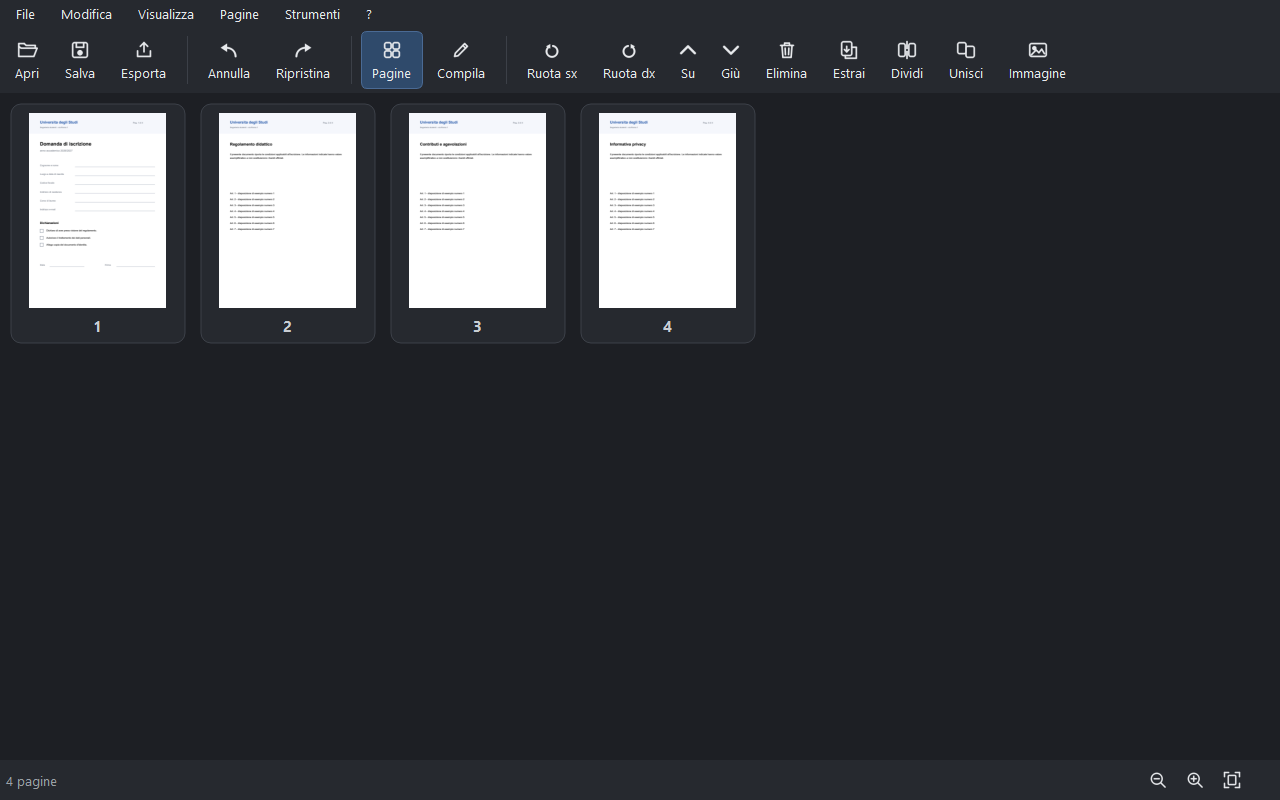
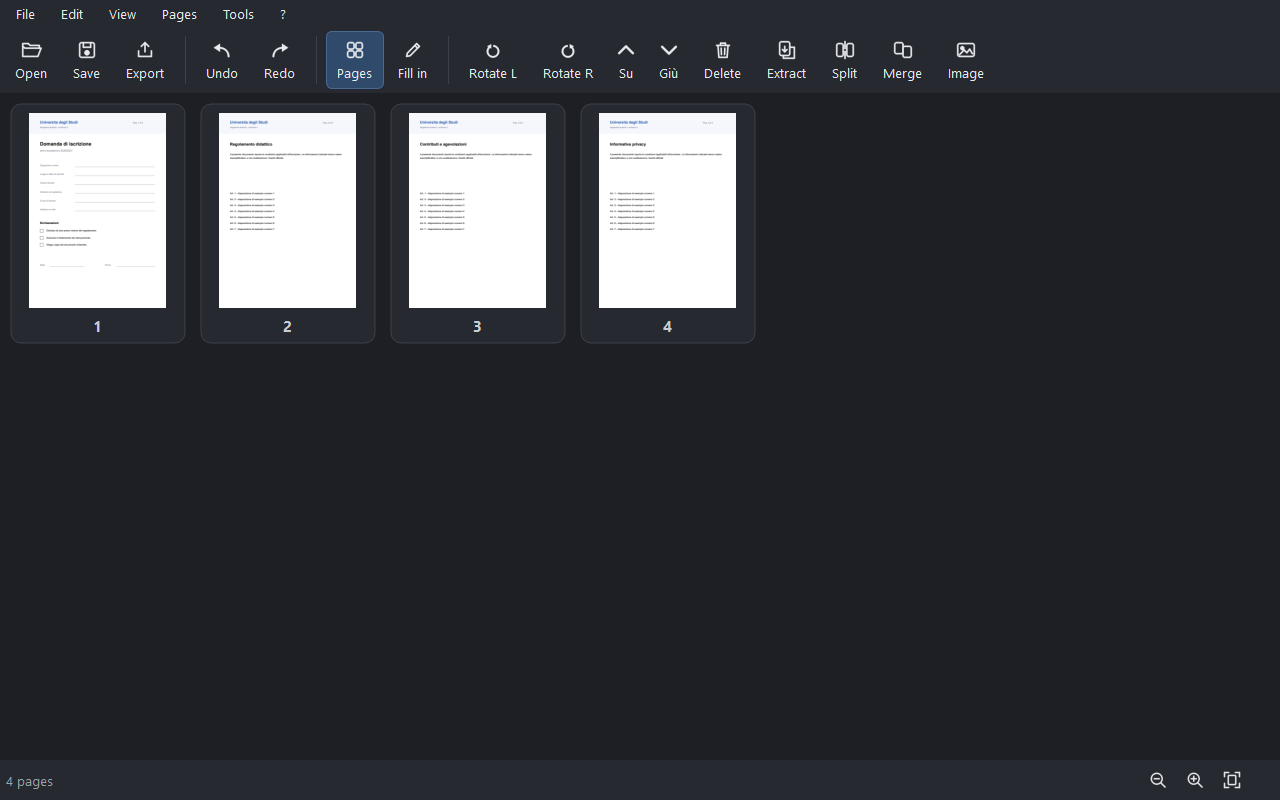
Aggiorna sito da landing/

diff --git a/come-si-fa.html b/come-si-fa.html
@@ -94,7 +94,7 @@
         <li data-en="Switch views with the <b>Pages</b> and <b>Fill in</b> buttons in the toolbar, or with <b>Ctrl+1</b> and <b>Ctrl+2</b>.">Passi all'altra vista con i pulsanti <b>Pagine</b> e <b>Compila</b> della barra, o con <b>Ctrl+1</b> e <b>Ctrl+2</b>.</li>
       </ol>
       <figure class="shot" style="margin-top:26px">
-        <img src="assets/img/howto/02-vista-compila.png" width="1280" height="800" loading="lazy"
+        <img src="assets/img/howto/02-vista-compila.png" data-en-src="assets/img/howto/02-vista-compila-en.png" width="1280" height="800" loading="lazy"
              alt="La vista Modifica e compila con un modulo di iscrizione aperto e la barra degli strumenti in alto.">
         <figcaption data-en="The <b>Edit and fill in</b> view. The row of tools at the top is what you will use for the rest of this guide.">La vista <b>Modifica e compila</b>. La fila di strumenti in alto è quella che userai per tutto il resto della guida.</figcaption>
       </figure>
@@ -116,7 +116,7 @@
         <li data-en="<b>Splitting</b> the document into several files: <b>Pages → Split document…</b>"><b>Dividere</b> il documento in più file: <b>Pagine → Dividi documento…</b></li>
       </ol>
       <figure class="shot" style="margin-top:26px">
-        <img src="assets/img/howto/01-organizza-pagine.png" width="1280" height="800" loading="lazy"
+        <img src="assets/img/howto/01-organizza-pagine.png" data-en-src="assets/img/howto/01-organizza-pagine-en.png" width="1280" height="800" loading="lazy"
              alt="La vista Organizza pagine con le miniature delle quattro pagine del documento.">
         <figcaption data-en="The <b>Organise pages</b> view: you drag things around as you would with slides.">La vista <b>Organizza pagine</b>: si trascina come si farebbe con le diapositive.</figcaption>
       </figure>
@@ -140,7 +140,7 @@
         <li data-en="<b>Ctrl+B</b> and <b>Ctrl+I</b> apply bold and italic while you type."><b>Ctrl+B</b> e <b>Ctrl+I</b> mettono grassetto e corsivo mentre stai scrivendo.</li>
       </ol>
       <figure class="shot" style="margin-top:26px">
-        <img src="assets/img/howto/03-modifica-testo.png" width="1280" height="800" loading="lazy"
+        <img src="assets/img/howto/03-modifica-testo.png" data-en-src="assets/img/howto/03-modifica-testo-en.png" width="1280" height="800" loading="lazy"
              alt="Il titolo del modulo è stato cambiato da Domanda di iscrizione a Domanda di immatricolazione, con lo stesso carattere e lo stesso corpo dell'originale.">
         <figcaption data-en="The form title has been rewritten as <b>Domanda di immatricolazione</b>: same typeface, same size, same position. Nobody would say it had been touched.">Il titolo del modulo è stato riscritto in <b>Domanda di immatricolazione</b>: stesso carattere, stesso corpo, stessa posizione. Nessuno direbbe che è stato toccato.</figcaption>
       </figure>
@@ -163,7 +163,7 @@
         <li data-en="With the <b>Select</b> tool you can then move the box or resize it from its corners.">Con lo strumento <b>Seleziona</b> puoi poi spostare la casella o ridimensionarla dagli angoli.</li>
       </ol>
       <figure class="shot" style="margin-top:26px">
-        <img src="assets/img/howto/04-casella-testo.png" width="1280" height="800" loading="lazy"
+        <img src="assets/img/howto/04-casella-testo.png" data-en-src="assets/img/howto/04-casella-testo-en.png" width="1280" height="800" loading="lazy"
              alt="Una casella di testo con scritto Rossi Maria sulla riga Cognome e nome del modulo.">
         <figcaption data-en="A text box resting on the empty line of the form.">Una casella di testo appoggiata sulla riga vuota del modulo.</figcaption>
       </figure>
@@ -183,7 +183,7 @@
         <li data-en="<b>Enter</b> to finish."><b>Invio</b> per terminare.</li>
       </ol>
       <figure class="shot" style="margin-top:26px">
-        <img src="assets/img/howto/05-caselle-griglia.png" width="1280" height="800" loading="lazy"
+        <img src="assets/img/howto/05-caselle-griglia.png" data-en-src="assets/img/howto/05-caselle-griglia-en.png" width="1280" height="800" loading="lazy"
              alt="Un codice fiscale scritto nelle caselle a griglia sulla riga Codice fiscale del modulo.">
         <figcaption data-en="The tax code goes in one letter per box, aligned to the pitch of the form.">Il codice fiscale entra una lettera per casella, allineato al passo del modulo.</figcaption>
       </figure>
@@ -200,7 +200,7 @@
         <li data-en="Size and colour are set in the toolbar.">La dimensione e il colore si regolano nella barra.</li>
       </ol>
       <figure class="shot" style="margin-top:26px">
-        <img src="assets/img/howto/06-spunte.png" width="1280" height="800" loading="lazy"
+        <img src="assets/img/howto/06-spunte.png" data-en-src="assets/img/howto/06-spunte-en.png" width="1280" height="800" loading="lazy"
              alt="Due spunte e una croce inserite nelle caselline delle dichiarazioni del modulo.">
         <figcaption data-en="Two ticks and a cross in the declaration boxes.">Due spunte e una croce nelle caselline delle dichiarazioni.</figcaption>
       </figure>
@@ -216,7 +216,7 @@
         <li data-en="Drag across the line to highlight, just as you would with a real highlighter.">Trascina sopra la riga da evidenziare, come faresti con un evidenziatore vero.</li>
       </ol>
       <figure class="shot" style="margin-top:26px">
-        <img src="assets/img/howto/07-evidenzia.png" width="1280" height="800" loading="lazy"
+        <img src="assets/img/howto/07-evidenzia.png" data-en-src="assets/img/howto/07-evidenzia-en.png" width="1280" height="800" loading="lazy"
              alt="Una riga del modulo evidenziata in giallo.">
         <figcaption data-en="The highlight stays under the text, which remains readable.">L'evidenziazione resta sotto al testo, che rimane leggibile.</figcaption>
       </figure>
@@ -232,7 +232,7 @@
         <li data-en="The <b>Signature</b> tool: opens the graphic-signature window, where you can <b>draw</b> it, <b>type</b> it choosing a handwriting typeface, and reuse it.">Strumento <b>Firma</b>: apre la finestra della firma grafica, dove puoi <b>disegnarla</b>, <b>scriverla a tastiera</b> scegliendo un carattere corsivo, e riusarla.</li>
       </ol>
       <figure class="shot" style="margin-top:26px">
-        <img src="assets/img/howto/08-penna-firma-grafica.png" width="1280" height="800" loading="lazy"
+        <img src="assets/img/howto/08-penna-firma-grafica.png" data-en-src="assets/img/howto/08-penna-firma-grafica-en.png" width="1280" height="800" loading="lazy"
              alt="Un tratto a mano libera disegnato sulla riga della firma del modulo.">
         <figcaption data-en="A freehand stroke on the signature line of the form.">Un tratto a mano libera sulla riga della firma.</figcaption>
       </figure>
@@ -254,7 +254,7 @@
         <li data-en="The ▲▼ arrows move to the previous and next one, jumping between pages too. <b>Esc</b> closes.">Le frecce ▲▼ passano al precedente e al successivo, saltando anche da una pagina all'altra. <b>Esc</b> chiude.</li>
       </ol>
       <figure class="shot" style="margin-top:26px">
-        <img src="assets/img/howto/09-cerca-testo.png" width="1280" height="800" loading="lazy"
+        <img src="assets/img/howto/09-cerca-testo.png" data-en-src="assets/img/howto/09-cerca-testo-en.png" width="1280" height="800" loading="lazy"
              alt="La barra di ricerca aperta in alto a destra con una parola trovata ed evidenziata nel testo della pagina.">
         <figcaption data-en="A search in progress: the word found is highlighted and the view has jumped by itself to the page containing it.">Ricerca in corso: la parola trovata è evidenziata e la vista è saltata da sola alla pagina che la contiene.</figcaption>
       </figure>
@@ -275,7 +275,7 @@
         <li data-en="<b>Ctrl+0</b> goes back to the starting size."><b>Ctrl+0</b> torna alla dimensione di partenza.</li>
       </ol>
       <figure class="shot" style="margin-top:26px">
-        <img src="assets/img/howto/10-zoom.png" width="1280" height="800" loading="lazy"
+        <img src="assets/img/howto/10-zoom.png" data-en-src="assets/img/howto/10-zoom-en.png" width="1280" height="800" loading="lazy"
              alt="Il documento ingrandito al 200 per cento, con il testo nitido.">
         <figcaption data-en="Zoom at 200%: the page is redrawn, not blown up as an image, so it stays sharp.">Zoom al 200%: la pagina viene ridisegnata, non ingrandita come immagine, quindi resta nitida.</figcaption>
       </figure>

diff --git a/assets/site.js b/assets/site.js
@@ -40,6 +40,16 @@
       im.setAttribute('alt', im.getAttribute(l === 'en' ? 'data-en-alt'
                                                        : 'data-it-alt'));
     }
+    /* schermate: in inglese si mostra la versione con l'app in inglese */
+    var img = document.querySelectorAll('[data-en-src]');
+    for (var s = 0; s < img.length; s++) {
+      var im = img[s];
+      if (!im.hasAttribute('data-it-src')) {
+        im.setAttribute('data-it-src', im.getAttribute('src'));
+      }
+      im.setAttribute('src', im.getAttribute(l === 'en' ? 'data-en-src'
+                                                        : 'data-it-src'));
+    }
     var titolo = document.querySelector('[data-en-title]');
     if (titolo) {
       if (!titolo.hasAttribute('data-it-title')) {
